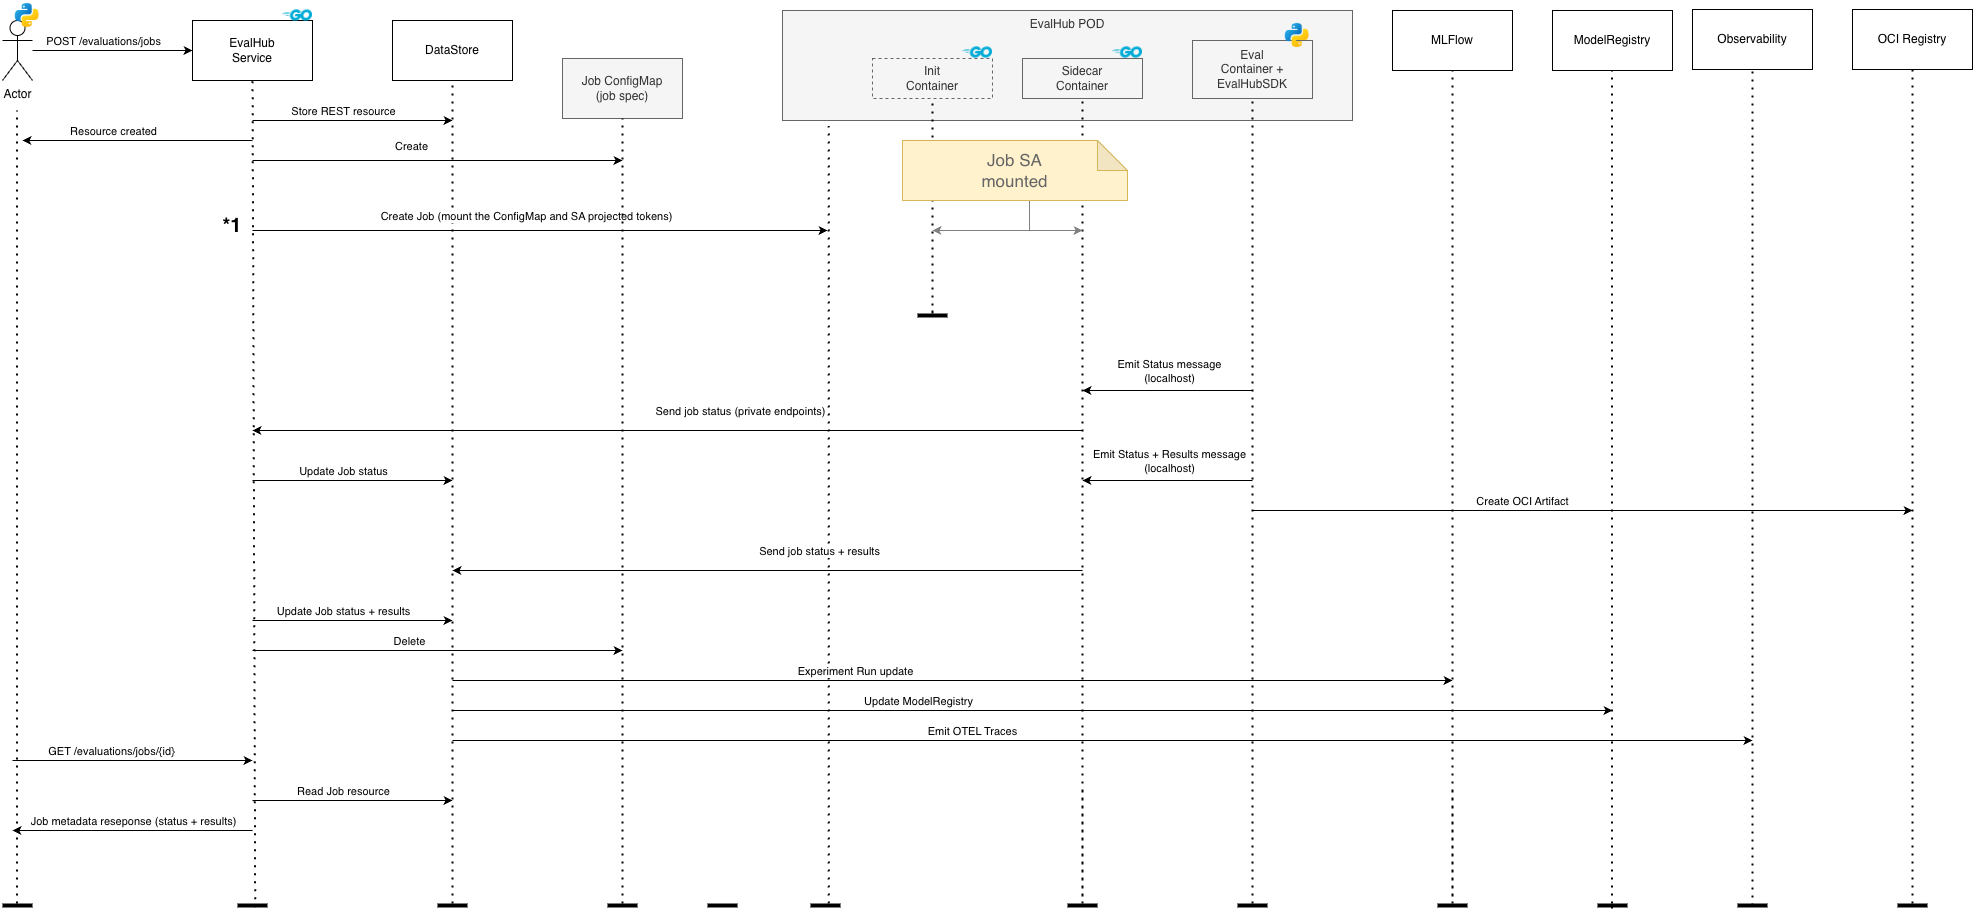
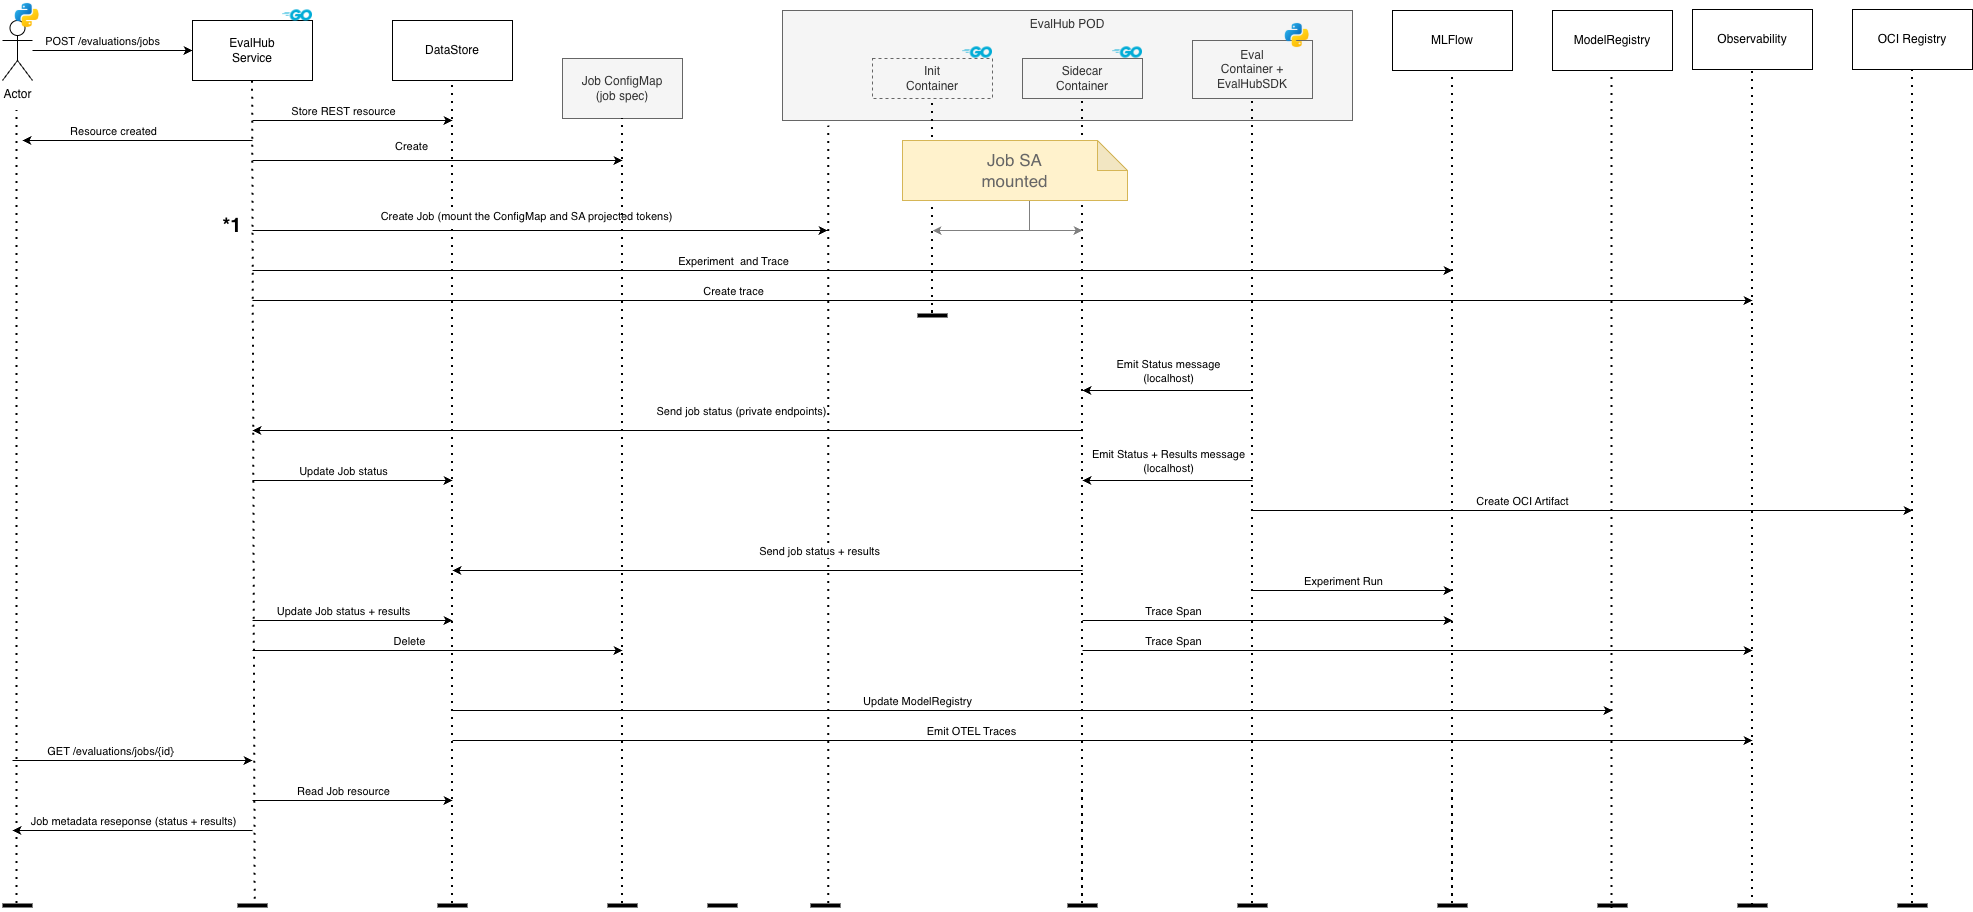
more clarifications

diff --git a/architecture-decision-records/eval-hub/ODH-ADR-EH-0001-eval-hub-service.md b/architecture-decision-records/eval-hub/ODH-ADR-EH-0001-eval-hub-service.md
@@ -78,7 +78,7 @@ The evaluation flow follows these steps:
 10. Any GET /api/v1/evaluations/jobs/{id} call coming from the user will reflect the current records status in DB. There is no kube api invocation in this flow. This is how the users or UIs can monitor the job progress via a polling mechanism. Different monitoring mechanisms can be considered later on:
     - Web-sockets or SSE.
     - Web-hooks - this can be handy for a UI to submit an eval job and also register a web hook that eval-hub service would call to keep the UI BFF up to date, hence avoiding the chatty polling approach.
-11. Eval-hub service creates the MLFlow experiment and runs. The top level MLFlow experiment needs to be created at the eval-hub service level because an evaluation can run multiple benchmarks using multiple providers. Exepriment runs however are managed by the AdapterFramework SDK because each experiment ran is 1-1 mapped with a benchmark job.
+11. Eval-hub service creates the MLFlow experiment and top level Trace.  Exepriment runs and trace Spans however are managed at each benchmark runtime job level.
 
 12. Eval-Hub service emits OTEL traces and metrics to the Observability system if available. The exact traces and metrics still need to be determined. <a href="#metrics-and-traces-documentation">This document discussed these details</a>  
 
@@ -181,11 +181,7 @@ In this case eval-hub creates a kube job (along with the sidecar etc) but the ev
 
 #### Experiment tracking in MLFlow
 
-This is the current integration that is happening. The eval-hub service needs to create the initial Experiment in MLFlow but to track each run within that experiment we have two options:
-- **Centralized** - Track the run from within eval-hub service itself
-- **Decentralized** - Each job tracks its own run from the eval job POD. The FrameworkAdapter SDK needs to perform the tracking.
-
-The decentralized option has the advantage of offloading work from the service itself and let each job track itself in MLFlow, including potential integration with MLflow SDK additional capabilities.
+The eval-hub service needs to create the initial Experiment in MLFlow from the Eval-Hub service. The reason is that an evaluation job can run multiple benchmarks from different providers and each run happens in a separate POD. Howver experiment runs are created from the runtime PODs and managed by the AdapterFramework SDK.
 
 #### Tracing in MLFlow
 